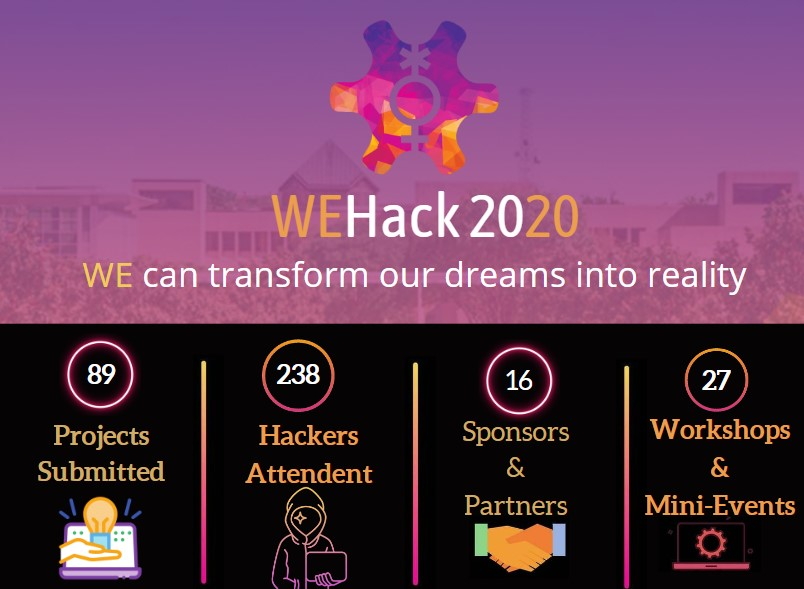
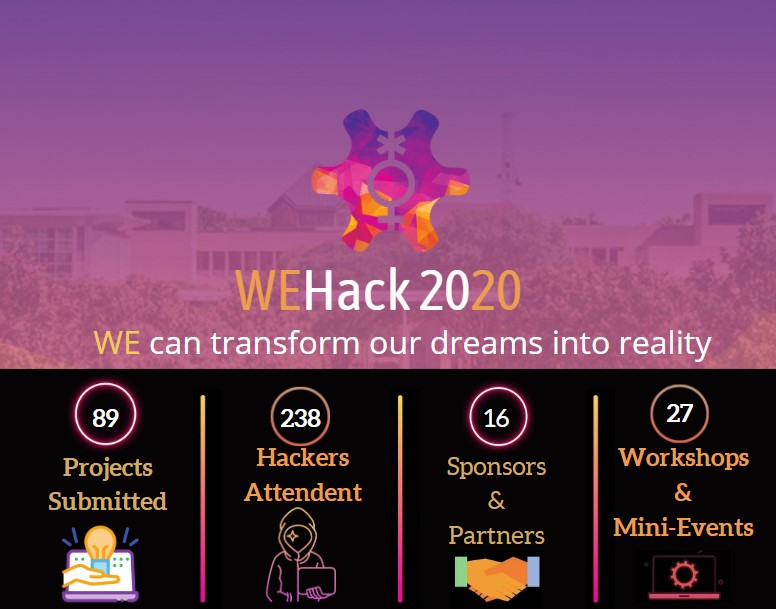
Statistics and part Footer

diff --git a/index.html b/index.html
@@ -24,11 +24,11 @@
                   <button class="font-paragraph" id="left-button" onclick=" window.open('http://coda.io/form/Volunteer-Sign-Ups_dFu8FXxDeex','_blank')" type="button" style="cursor:pointer;">VOLUNTEER</button>
                   <button class="font-paragraph" id="right-button" onclick=" window.open('http://coda.io/form/WEHack-2022-Mentor-Application_d18shEvpl87','_blank')" type="button" style="cursor:pointer;">MENTOR</button>
                 </div>-->
-            </div>
+             </div>
         </div>
         <div class="font-paragraph message">"Computing is too important to be left to men." - Karen Spärck Jones, a British Computer Scientist (1935 - 2007)</div>
     </div>
-
+    
    <section class="about">
     <div class="contentBx" id="wehack">
       <h1 class="about-heading"><center>Dallas’ largest inclusive hackathon</center></h1>
@@ -47,25 +47,19 @@
         a great hacking experience, as well as free food and swag! There is also 
         a workshop planned before the hackathon, more information TBA.
       </p>
+      <br /> <br />
       <footer id="footer">
-
         <div class="statistics">
-          <h1 class="heading">Past Statistics from WEHack</h1>
-          <div class="box1"></div>
-          <div class="box2"></div>
+          <div class="box1"> First Virtual Hackathon</div>
+          <div class="box2">First In-Person Hackathon</div>
             <!--Countdown-->
             <!--
             <script src="https://cdn.logwork.com/widget/countdown.js"></script>
             <a href="https://logwork.com/countdown-swx8" class="countdown-timer" data-width="500" data-timezone="America/Chicago" data-textcolor="#ffffff" data-date="2022-04-02 00:00" data-unitscolor="#ffffff">WEHack Countdown</a> 
-            -->  
-          </div>
-          <div></div>
-          <div></div>
-          <div></div>
-          <div></div>
+            -->          
         </div>
-        </footer>
-    </div>
+      </footer>
+     </div>
     <!-- commenting out orgs
     <div class="orgs">
       <div></div>
@@ -89,7 +83,7 @@
           <source src="images\WEHack_FINAL (2) (1).mp4" type = "video/mp4"/>
       </video>
     </div> -->
-  </section>
+   </section>
 
 <!-- Commenting out WEHack 2020 video, schedule, why wehack and mession
   <iframe 
@@ -176,7 +170,6 @@
           </div>
         </div>
       -->
-    </section>
     <section class="whyWEHack" id="mission">
       <div class="contentBox">
 
@@ -265,7 +258,7 @@
       </div>
     -->
 
-    </section>
+     </section>
     
     <section class="sponsors" id="sponsors">
       <center cass="intro">
@@ -308,6 +301,7 @@
           </a> 
         </center>
       </div>
+    
 
 
 <!-- commenting out partners section
@@ -566,55 +560,55 @@
         </div>
       </div>
   </section>
+     
+   <!--<section class="contact" id="contact">-->
+    <footer id="footer">
 
-    <!--<section class="contact" id="contact">-->
-      <footer id="footer">
-
-        <div class="grid">
-          <div></div>
-          <div>
-            <!--Countdown-->
-            <script src="https://cdn.logwork.com/widget/countdown.js"></script>
-            <a href="https://logwork.com/countdown-swx8" class="countdown-timer" data-width="500" data-timezone="America/Chicago" data-textcolor="#ffffff" data-date="2022-04-02 00:00" data-unitscolor="#ffffff">WEHack Countdown</a>   
-          </div>
-          <div></div>
-          <div></div>
-          <div></div>
-          <div></div>
-  
-          <!--<div style="text-align: left;">
-            Sponsorship/Partnership packet (need to replace href value)
-            <a 
-              class="text"
-              href="https://static.mlh.io/docs/mlh-code-of-conduct.pdf" 
-              target="_blank"
-              ><p>Sponsorship/Partnership Packet</p>
-            </a>      
-          </div>
-          <div></div> -->
-          <div>
-            <br /> <br />
-            <!--Social Media-->
-            <a style="text-decoration: none;"  href="https://twitter.com/wehackutd">
-              <img src="/images/twitter-icon.png" alt="twitter" width="30" height="30"> 
-            </a>&nbsp;
-            <a style="text-decoration: none;"  href="https://www.facebook.com/WEHackUTD/">
-              <img src="/images/facebook.png" alt="facebook" width="30" height="30">
-            </a>&nbsp;
-            <a style="text-decoration: none;"  href="https://www.linkedin.com/company/wehackutd-2020/">
-              <img src="/images/LINKEDIN.png" alt="linkedin" width="30" height="30">
-            </a>&nbsp;
-            <a style="text-decoration: none;"  href="mailto:wehackutd@gmail.com">
-              <img src="/images/gmail.png" alt="gmail" width="30" height="30">
-            </a>&nbsp;
-            <a style="text-decoration: none;"  href="https://www.instagram.com/wehackutd/">
-              <img src="/images/instagram.png" alt="instagram" width="30" height="30">
-            </a>
-          </div>
+      <div class="grid">
+        <div></div>
+        <div>
+          <!--Countdown-->
+          <script src="https://cdn.logwork.com/widget/countdown.js"></script>
+          <a href="https://logwork.com/countdown-swx8" class="countdown-timer" data-width="500" data-timezone="America/Chicago" data-textcolor="#ffffff" data-date="2022-04-02 00:00" data-unitscolor="#ffffff">WEHack Countdown</a>   
         </div>
-      </footer>
-  
-      </div>    
+        <!--<div style="text-align: left;">
+          Sponsorship/Partnership packet (need to replace href value)
+          <a 
+            class="text"
+            href="https://static.mlh.io/docs/mlh-code-of-conduct.pdf" 
+            target="_blank"
+            ><p>Sponsorship/Partnership Packet</p>
+          </a>      
+        </div>
+        <div></div> -->
+        <div>
+          <br /> <br />
+          <!--Social Media-->
+          <a style="text-decoration: none;"  href="https://twitter.com/wehackutd">
+            <img src="/images/twitter-icon.png" alt="twitter" width="30" height="30"> 
+          </a>&nbsp;
+          <a style="text-decoration: none;"  href="https://www.facebook.com/WEHackUTD/">
+            <img src="/images/facebook.png" alt="facebook" width="30" height="30">
+          </a>&nbsp;
+          <a style="text-decoration: none;"  href="https://www.linkedin.com/company/wehackutd-2020/">
+            <img src="/images/LINKEDIN.png" alt="linkedin" width="30" height="30">
+          </a>&nbsp;
+          <a style="text-decoration: none;"  href="mailto:wehackutd@gmail.com">
+            <img src="/images/gmail.png" alt="gmail" width="30" height="30">
+          </a>&nbsp;
+          <a style="text-decoration: none;"  href="https://www.instagram.com/wehackutd/">
+            <img src="/images/instagram.png" alt="instagram" width="30" height="30">
+          </a>
+        </div>
+        <div class = "copyright">
+           <br /> <br />
+          <p>&copy Copyright 2022 Designed by <strong>WEHack</strong> and <strong>HackUTD</strong> | HackPortal developed with by <strong>HackUTD</strong> and <strong>ACM</strong> Development</p>
+        </div>
+      </div>
+    </footer>
+    
+  </div>
+    
   <!--</section>-->
     <!-- MLH hacking badge
     <a
@@ -637,5 +631,6 @@
         style="width: 100%;"
     /></a>
     -->
+    
   </body>
 </html>

diff --git a/wehack.css b/wehack.css
@@ -628,37 +628,58 @@
 }
 
 /* ~~~~~~~~~~~Past Statistics~~~~~~~~~~~~~~ */
-
+.past_Info {
+    /*padding: 25px 30px;
+    /*background: #5b2e70;
+    color: #ffa508;*/
+    display: flex;
+    justify-content: space-around;
+    align-items: center;
+    text-align: center;
+}
+.statistics {
+  display: flex;
+}
 .statistics .box1 {
+  flex: 50%;
   position: relative;
-  width: 500px;
-  height: 370px;
+  width: 600px;
+  height: 470px;
   float: left;
-  margin: 10px;
+  margin: 20px;
   box-sizing: border-box;
-  box-shadow: 0px 0px 10px 2px black;
+  box-shadow: 0px 0px 20px 10px purple;
+  overflow: hidden;
+  border-radius: 10px;
+  
+  background-image: url(/images/stat20201.jpg);
+  background-size: 600px 470px;
+  font-size: 30px;
+  text-align: center;
+  text-shadow:3px 1px purple;
+
+  
+}
+.statistics .box2 {
+  flex: 50%;
+  position: relative;
+  width: 600px;
+  height: 470px;
+  float: left;
+  margin: 20px;
+  box-sizing: border-box;
+  box-shadow: 0px 0px 20px 10px black;
   overflow: hidden;
   border-radius: 10px;
 
   background-image: url(/images/stat2022.jpg);
-  background-size: 500px 370px;
+  background-size: 600px 470px;
+  font-size: 30px;
+  text-align: center;
+  text-shadow:3px 1px black;
  
 }
-.statistics .box2 {
-  position: relative;
-  width: 500px;
-  height: 370px;
-  background: #000;
-  float: left;
-  margin: 10px;
-  box-sizing: border-box;
-  box-shadow: 0px 0px 10px 2px purple;
-  overflow: hidden;
-  border-radius: 10px;
 
-  background-image: url(/images/stat2020.jpg);
-  background-size: 500px 370px;
-}
 
 /* ~~~~~~~~~~~~~~~SPONSORS~~~~~~~~~~~~~~~~~ */
 .sponsors {
@@ -750,7 +771,7 @@
 
 /* ~~~~~~~~~~~~~~~FOOTER~~~~~~~~~~~~~~~~~ */
 footer {
-  padding: 25px 30px;
+  /*padding: 25px 30px;
   /*background: #5b2e70;
   color: #ffa508;*/
   display: flex;
@@ -760,7 +781,7 @@ footer {
 }
 
 .bottom {
-  padding: 5px 10px;
+  /*padding: 5px 10px;*/
   background: #000000;
   color: #FFFFFF;
   display: flex;
